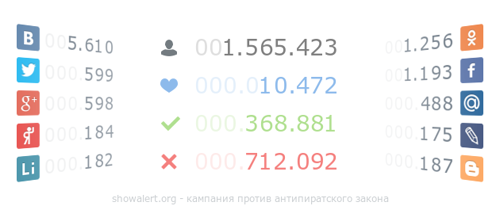
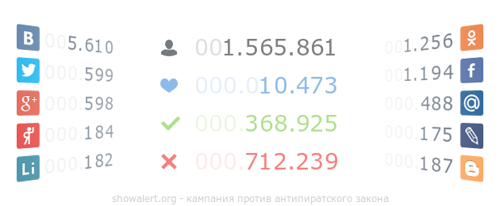
some updates

diff --git a/votes.js b/votes.js
@@ -1,1 +1,1 @@
-window.lk.votes(22559)
+window.lk.votes(22577)
